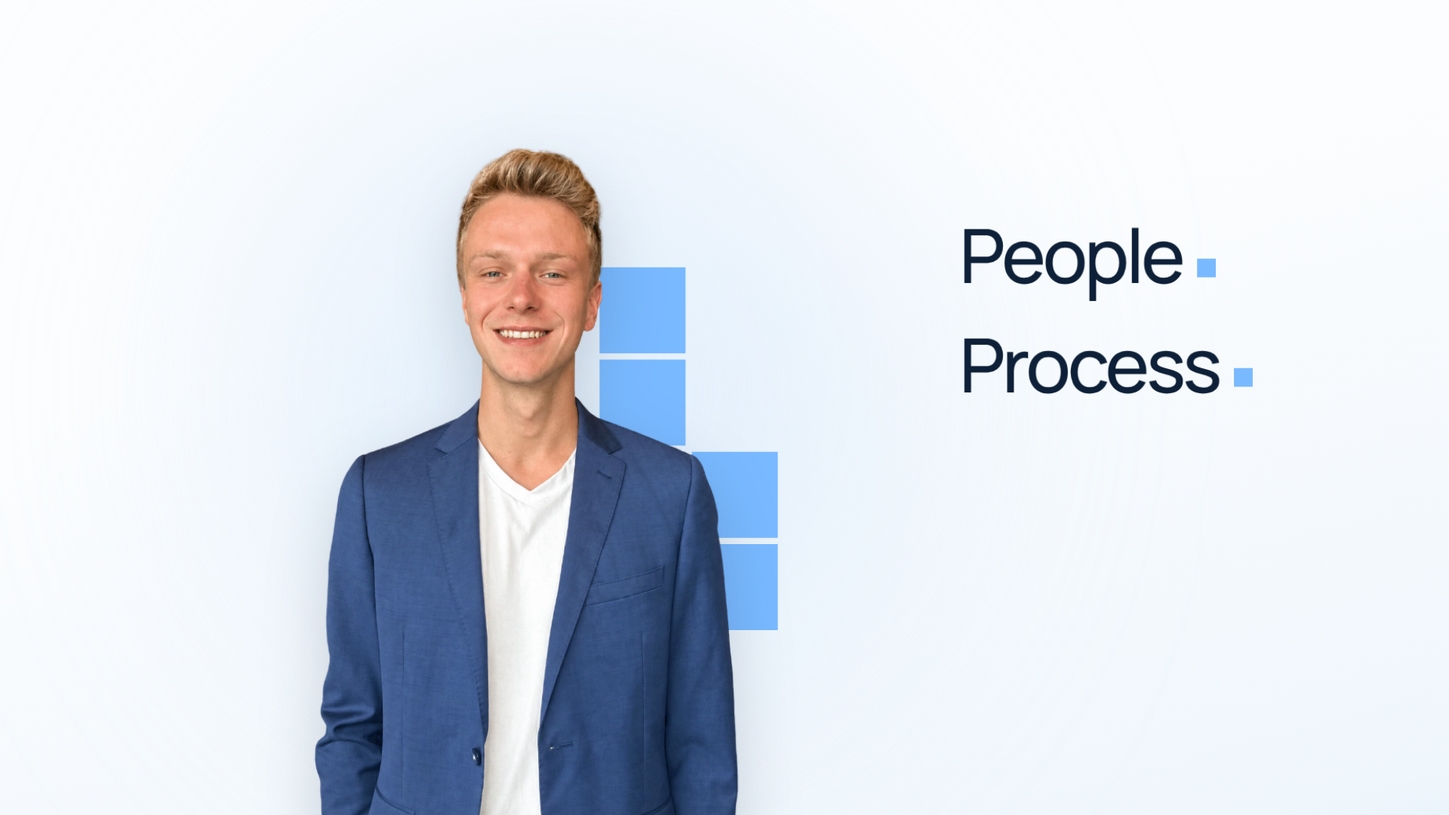
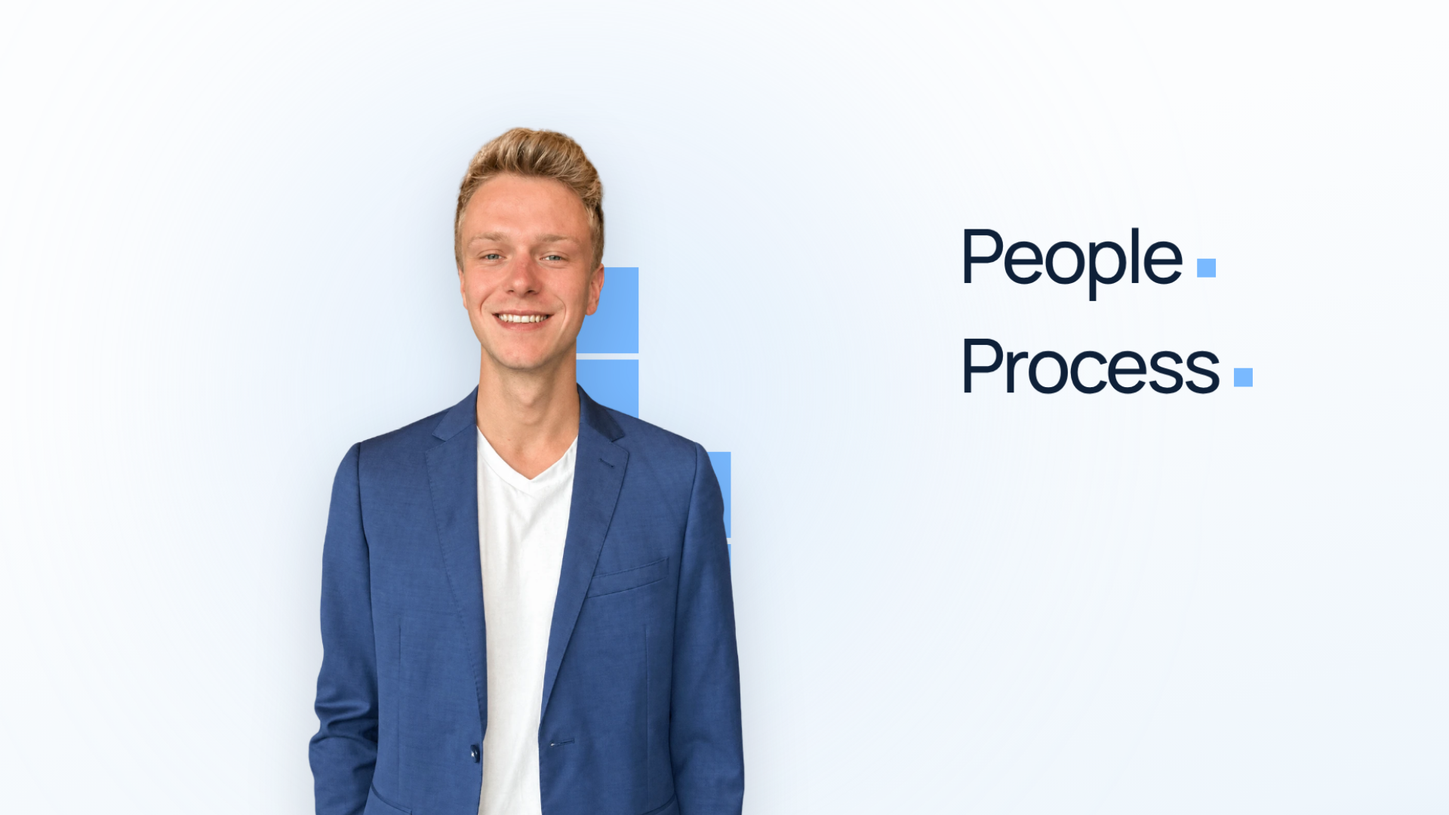
Robin Bos film: cold-eyes round applied (wall order, soft rises, counter roll, spacing, apostrophe)
Claude-Session: https://claude.ai/code/session_01JyUh6vG7236REXPth8ih3V

diff --git a/films/robin-bos/film/src/Story.tsx b/films/robin-bos/film/src/Story.tsx
@@ -28,7 +28,7 @@ const PER = { display: 34, state: 24 };                          // the period s
 const TILE = { x: 780, y: 520, s: 460, r: 0.22 };                // the K.B tile in Robin's place
 const TILE2 = { x: 560, y: 520, s: 300 };                        // the tile once the year is the subject
 const YEAR = { x: 760, y: 500, size: 200 };                      // 2024
-const MONTHS = { x: 1250, y: 500, size: 200 };                   // 18
+const MONTHS = { x: 1345, y: 500, size: 200 };                   // 18 (a clear gap after 2024)
 const RAIL = { y: 780 };                                         // the hairline rail; ticks 740–768 on it
 const GRID = { x: 540, y: 400, s: 64, gap: 18 };                 // 5×5 of projects
 const gp = GRID.s + GRID.gap;
@@ -52,12 +52,14 @@ const Travel: React.FC<{ g: number; at: string; dur: number; from: [number, numb
 
 export const Story: React.FC<{ g: number }> = ({ g }) => {
   // ---------- stretch one: the wall ----------
-  // the first three squares stack before Robin; the last three behind his shoulder once he is in
+  // the first three squares stack before Robin (a column and its footing, never a lone 2×2); the last two behind his shoulder once he is in
   const rise1: { c: number; r: number; at: number }[] = [
-    { c: 0, r: 2, at: 1 }, { c: 1, r: 1, at: 12 }, { c: 0, r: 1, at: 23 }, { c: 1, r: 0, at: 40 }, { c: 0, r: 0, at: 52 },
+    { c: 0, r: 2, at: 1 }, { c: 1, r: 1, at: 12 }, { c: 1, r: 0, at: 23 }, { c: 0, r: 1, at: 40 }, { c: 0, r: 0, at: 52 },
   ];
   const settle = T.k(g, 52 / 30 + 0.5, 0.2, MOVE);                 // the whole stack settles 6 px as the top course lands
-  const tuck = k(g, "w:behind", 0.5, MOVE, 0.15) * 90;             // on "behind" the wall tucks 90 px further behind his shoulder
+  const behindK = k(g, "w:behind", 0.5, MOVE, 0.15);
+  const tuck = behindK * 150;                                      // on "behind" the wall tucks 150 px further behind his shoulder …
+  const fwd = 1 + behindK * 0.03;                                  // … and Robin comes 3% forward, from his feet
   const course = k(g, "w:build", 0.47, MOVE, 0.3);                 // the wall grows a course on "I build": everything up 118
   const lift = course * PITCH;
   const robin1In = k(g, "w:strong", 0.63, ARRIVE, 0.75);           // Robin rises on "strong" (lands ≈1.5 s)
@@ -144,13 +146,13 @@ export const Story: React.FC<{ g: number }> = ({ g }) => {
             const pos = cell1(c, r);
             const leaves = (c === 1 && r === 0) ? "w:bos" : (c === 1 && r === 1) ? "w:process" : (c === 0 && r === 1) ? "w:technology" : null;
             if (leaves && g >= F(`${leaves}-0.45`)) return null;     // it has left the wall: drawn by its travel below
-            return <Sq key={`${c}${r}`} name={`w-${c}${r}`} x={pos.x} y={lerp(pos.y + 700, pos.y, p)} s={S} o={p > 0 ? 1 : 0} style={{ filter: p > 0 && p < 0.7 ? `blur(${(1 - p) * 6}px)` : undefined }} />;
+            return <Sq key={`${c}${r}`} name={`w-${c}${r}`} x={pos.x} y={lerp(pos.y + 400, pos.y, p)} s={S} o={cl(p * 2.5)} style={{ filter: p > 0 && p < 0.7 ? `blur(${(1 - p) * 6}px)` : undefined }} />;
           })}
           {/* the course: two squares rise under the wall on "I build" */}
           {[0, 1].map((c) => {
             const p = k(g, "w:build", 0.47, ARRIVE, 0.3 - c * 0.08);
             const pos = cell1(c, 3);
-            return p > 0 && <Sq key={`c${c}`} name={`w-${c}3`} x={pos.x} y={lerp(pos.y + 500, pos.y, p)} s={S} style={{ filter: p < 0.7 ? `blur(${(1 - p) * 6}px)` : undefined }} />;
+            return p > 0 && <Sq key={`c${c}`} name={`w-${c}3`} x={pos.x} y={lerp(pos.y + 220, pos.y, p)} s={S} o={cl(p * 2.5)} style={{ filter: p < 0.7 ? `blur(${(1 - p) * 6}px)` : undefined }} />;
           })}
         </div>
       )}
@@ -199,7 +201,7 @@ export const Story: React.FC<{ g: number }> = ({ g }) => {
 
       {/* Robin, stretch one: rises in front of the wall on "strong", leaves left on "Consultancy" */}
       {g >= F("w:strong") - 24 && g < F("w:consultancy") + 20 && (
-        <Portrait name="robin1" x={ROBIN1.x + exitX} y={ROBIN1.y + (1 - robin1In) * 980} h={ROBIN1.h} blur={robin1In < 0.75 ? (1 - robin1In) * 6 : robin1Exit > 0 ? robin1Exit * 6 : 0} />
+        <Portrait name="robin1" x={ROBIN1.x + exitX} y={ROBIN1.y + (1 - robin1In) * 980} h={ROBIN1.h * fwd} blur={robin1In < 0.75 ? (1 - robin1In) * 6 : robin1Exit > 0 ? robin1Exit * 6 : 0} />
       )}
 
       {/* the K.B tile: the gathered square turns navy, rounds and takes the real letters; then grows into the field */}
@@ -233,12 +235,13 @@ export const Story: React.FC<{ g: number }> = ({ g }) => {
       {/* €2M on the field, then the header */}
       {g >= F("w:two+0.05") && !whiteGone && (() => {
         const eK = k(g, "w:two", 0.4, ARRIVE, -0.05), twoK = k(g, "w:two", 0.42, ARRIVE, -0.12), mK = k(g, "w:million", 0.42, ARRIVE, 0.05);
+        const eO = k(g, "w:two", 0.15, (t) => t, -0.05);
         const size = lerp(440, 130, headerK);
         const x = lerp(505, 262, headerK), y = lerp(290, 80, headerK);
         return (
           <>
             <div data-probe="eur2m" style={{ position: "absolute", left: 0, top: 0, transform: `translate(${x}px, ${y}px)`, display: "flex", fontFamily: "Manrope", fontWeight: 700, fontSize: size, color: C.white, letterSpacing: "-0.05em", lineHeight: 1, willChange: "transform" }}>
-              <span style={{ display: "inline-block", transform: `translateX(${(1 - eK) * -220}px)`, opacity: eK, filter: eK < 1 ? `blur(${(1 - eK) * 8}px)` : undefined }}>€</span>
+              <span style={{ display: "inline-block", transform: `translateX(${(1 - eK) * -220}px)`, opacity: eO, filter: eK < 1 ? `blur(${(1 - eK) * 8}px)` : undefined }}>€</span>
               <span style={{ display: "inline-block", transform: `translateY(${(1 - twoK) * size * 0.32}px)`, opacity: Math.min(1, twoK * 1.7), filter: twoK < 1 ? `blur(${(1 - twoK) * 9}px)` : undefined }}>2</span>
               <span style={{ display: "inline-block", transform: `translateY(${(1 - mK) * size * 0.32}px)`, opacity: Math.min(1, mK * 1.7), filter: mK < 1 ? `blur(${(1 - mK) * 9}px)` : undefined }}>M</span>
             </div>
@@ -258,35 +261,43 @@ export const Story: React.FC<{ g: number }> = ({ g }) => {
         let landed = 0;
         for (let r = 4; r >= 0; r--) for (let c = 0; c < 5; c++) {
           const idx = (4 - r) * 5 + c;
-          const p = k(g, "w:twenty3", 0.4, ARRIVE, 0.0 - idx * 0.033);
+          const p = k(g, "w:twenty3", 0.4, ARRIVE, 0.0 - idx * 0.05);
           landed += Math.min(1, p / 0.9);
           if (p <= 0) continue;
           const cx0 = GRID.x + c * gp + GRID.s / 2, cy0 = GRID.y + r * gp + GRID.s / 2;
           const bc = { x: GRID.x + 2 * gp + GRID.s / 2, y: GRID.y + 2 * gp + GRID.s / 2 };
           const cx = lerp(cx0, bc.x + (c - 2) * GRID.s, close), cy = lerp(cy0, bc.y + (r - 2) * GRID.s, close);
-          const yRise = (1 - p) * 600;
+          const yRise = (1 - p) * 300;
           const blur = p < 0.7 ? (1 - p) * 6 : 0;
           if (split <= 0) {
-            items.push(<Sq key={idx} x={cx} y={cy + yRise} s={GRID.s} style={{ filter: blur ? `blur(${blur}px)` : undefined }} />);
+            items.push(<Sq key={idx} x={cx} y={cy + yRise} s={GRID.s} o={cl(p * 2.5)} style={{ filter: blur ? `blur(${blur}px)` : undefined }} />);
           } else {
             const sp = split * (1 - close);
             const q = lerp(32, 26, sp), d = lerp(16, 19, sp);
             for (const [dx, dy] of [[-1, -1], [1, -1], [-1, 1], [1, 1]]) items.push(<Sq key={`${idx}${dx}${dy}`} x={cx + dx * d} y={cy + dy * d} s={q} />);
           }
         }
-        const count = split > 0 ? lerp(25, 100, split) : landed;
-        const labelK = k(g, "w:projects", 0.3, ARRIVE, 0.13);
+        // the count eases in (no digit flicker at the start), follows the landings, and reaches 25 with the last square
+        const u = cl(landed / 25), ea = 0.3;
+        const count = 25 * (u < ea ? (u * u) / (2 * ea) : u - ea / 2) / (1 - ea / 2);
+        const countIn = k(g, "w:twenty3", 0.25, (t) => t, 0.0);
+        const labelK = k(g, "w:twenty3", 0.3, ARRIVE, -0.25);
+        const numW = lerp(248, 372, split);
         const plusK = k(g, "w:automations", 0.27, ARRIVE, 0.1);
         const outK = T.k(g, F("w:team") / 30 - 0.2, 0.2, DEPART);
         return (
           <div data-probe="projects" style={{ position: "absolute", left: 0, top: 0 }}>
             {items}
-            <div data-probe="counter" style={{ position: "absolute", left: 0, top: 0, width: 620, whiteSpace: "nowrap", transform: `translate(1080px, 440px)`, opacity: (1 - outK) * cl((headerK - 0.7) * 4) * cl(count * 2), filter: outK > 0 ? `blur(${outK * 8}px)` : undefined, fontFamily: "Manrope", color: C.white }}>
-              <div style={{ display: "flex", alignItems: "flex-end", fontWeight: 700, fontSize: 200, letterSpacing: "-0.05em", lineHeight: 1 }}>
-                <div style={{ width: 124 * cl(split * 1.2), overflow: "hidden", opacity: cl(split * 1.5) }}><OdoDigit v={odo(count, 3)[0]} size={200} width={0.62} /></div>
-                <div style={{ width: 124 * cl((count - 9.5) * 1.2), overflow: "hidden" }}><OdoDigit v={odo(count, 3)[1]} size={200} width={0.62} /></div>
-                <OdoDigit v={odo(count, 3)[2]} size={200} width={0.62} />
-                <span style={{ fontSize: 120, marginBottom: 20, marginLeft: 6, opacity: plusK, transform: `translateY(${(1 - plusK) * 30}px)`, display: "inline-block" }}>+</span>
+            <div data-probe="counter" style={{ position: "absolute", left: 0, top: 0, width: 620, whiteSpace: "nowrap", transform: `translate(1080px, 440px)`, opacity: (1 - outK) * cl((headerK - 0.7) * 4) * countIn, filter: outK > 0 ? `blur(${outK * 8}px)` : undefined, fontFamily: "Manrope", color: C.white }}>
+              <div style={{ position: "relative", height: 200, fontWeight: 700, fontSize: 200, letterSpacing: "-0.05em", lineHeight: 1 }}>
+                {/* 25 counts up as the squares land; on "hundred" it rolls up and 100 rolls in, the same roll as the label beneath */}
+                <Roll g={g} at="w:hundred-0.15" dur={0.27} h={200} style={{ width: 420 }}
+                  a={<div style={{ display: "flex", alignItems: "flex-end" }}>
+                    <div style={{ width: 124 * cl((count - 9.5) * 1.2), overflow: "hidden" }}><OdoDigit v={odo(count, 2)[0]} size={200} width={0.62} /></div>
+                    <OdoDigit v={odo(count, 2)[1]} size={200} width={0.62} />
+                  </div>}
+                  b={<span>100</span>} />
+                <span style={{ position: "absolute", left: numW + 6, bottom: 20, fontSize: 120, opacity: plusK, transform: `translateY(${(1 - plusK) * 30}px)`, display: "inline-block" }}>+</span>
               </div>
               <div style={{ height: 70, marginTop: 10, opacity: labelK, transform: `translateY(${(1 - labelK) * 20}px)` }}>
                 {/* the label rolls with the counter, on the same word: "100" never sits over "client projects" */}
@@ -379,7 +390,7 @@ export const Story: React.FC<{ g: number }> = ({ g }) => {
       })}
 
       {/* Robin, stretch two: enters from the right on "advise" and stays */}
-      {g >= F("w:advise") - 14 && <Portrait style={{ zIndex: 3 }} name="robin2" x={ROBIN2.x + (1 - robin2In) * 900} y={ROBIN2.y} h={ROBIN2.h} blur={robin2In < 0.75 ? (1 - robin2In) * 6 : 0} />}
+      {g >= F("w:advise") - 14 && <Portrait style={{ zIndex: 3 }} name="robin2" o={cl(robin2In * 4)} x={ROBIN2.x + (1 - robin2In) * 900} y={ROBIN2.y} h={ROBIN2.h} blur={robin2In < 0.75 ? (1 - robin2In) * 6 : 0} />}
 
       {/* the four areas take the cells the logos leave; the square steps through them as each word's period */}
       {g >= F("w:strategy") - 10 && g < F("w:building") && (
@@ -394,7 +405,7 @@ export const Story: React.FC<{ g: number }> = ({ g }) => {
       {/* LET'S TALK. */}
       {g >= F("w:lets") - 10 && (
         <div data-probe="cta" style={{ position: "absolute", zIndex: 3, left: 0, top: 0 }}>
-          <Line g={g} words={[{ t: "LET'S", at: "w:lets-0.13" }]} x={TYPE2} y={280} size={CTA} weight={700} ls={-0.08} />
+          <Line g={g} words={[{ t: "LET\u200A\u2019\u200AS", at: "w:lets-0.13" }]} x={TYPE2} y={280} size={CTA} weight={700} ls={-0.08} />
           <Line g={g} words={[{ t: "TALK", at: "w:talk-0.14" }]} x={TYPE2} y={500} size={CTA} weight={700} ls={-0.08} />
         </div>
       )}

diff --git a/films/robin-bos/storyboard/index.html b/films/robin-bos/storyboard/index.html
@@ -87,10 +87,10 @@ ul{padding-left:20px} li{margin:4px 0}
 <div class="fr"><img src="frames/f0899.png" alt=""><div class="t">29.97 s · frame 899 · <span class="p">(last frame)</span></div><div class="s"><b>On screen:</b> as above · The last frame, still working: the push completes.</div><div class="m"><b>Moves:</b> The camera&#x27;s push.</div></div>
 </div></div>
 <h2>Notes</h2><ul><li>Script: proposed, written from Robin&#x27;s own site copy and his €2M post (first-person and third-person variants in storyboard/notes.md). Every claim is in harvest/facts.md. &#x27;€2M&#x27; carries the site&#x27;s own caption: company-reported, following its first funding round.</li><li>Format assumption: 16:9 at 1920×1080, 30 fps, 30 s (website hero + LinkedIn). The subject stays in the middle 60 % for a later 9:16 recut.</li><li>Look: no intake style was chosen, so the look is Robin&#x27;s own brand measured from his site (brand.json); bright by default, one navy field for the valuation and proof (6.7 s), grown out of the K.B tile and leaving through the card&#x27;s box.</li><li>The 2×3 wall is the film&#x27;s one grounded metaphor: his own square mark stacking as blocks for &#x27;structure&#x27;; it reads in a second and returns at the end as the viewer&#x27;s structure, completed from Robin&#x27;s shoulder.</li><li>Robin: on screen 2.6–10.1 s, in the photo 19.4–21.0 s, 21.0–30 s (about 18 s). Two entrances (from below, from the right), one exit (left); never scaled or re-placed while on screen.</li><li>The four companies: as his site presents them (WKConversions, Top Jobs Abroad, ClearScaler mark + name, Tale Forge). hirebetter.io is a K.B venture, not an advisory role, and is left out of the advisory beat.</li><li>25 projects and 100+ automations are K.B&#x27;s own figures (kruslockbosconsultancy.com); shown as units, since 14 client logos ≠ 25.</li><li>Voice: Piper en_US-ryan-high scratch voice, timing only. The real recording retimes the picture: every move is keyed on a word label.</li></ul>
-<h2>Revision log</h2><table><tr><th>Before</th><th>After</th><th>Why</th></tr><tr><td>B6 &quot;a hundred automations&quot;: counter 25→100 on &quot;hundred&quot; over the label &quot;client projects&quot;</td><td>label rolls with the counter; only the + lands on &quot;automations&quot;</td><td>a false claim for half a second</td></tr><tr><td>B5 €2M: two-line caption at 36/30 px; the 2 rolled through 1</td><td>one verbatim line at 44 px; the 2 rises with € and M</td><td>phone legibility; a false number for six frames</td></tr><tr><td>B8 end card: 34 px grey contact lines in the bottom margin</td><td>40 px ink/blue lines above y 980; pill 640×112</td><td>the &quot;how&quot; must be readable</td></tr><tr><td>periods: 46/40 px squares over the last glyph</td><td>34/24 px, 0.2 em clear, bottom on the baseline</td><td>the site&#x27;s proportion, no collisions</td></tr><tr><td>B4–B5: tile largest; ticks through the digits</td><td>tile steps aside to 300 px; 2024/18 at 200 px; ticks 40 px under</td><td>the subject the largest thing</td></tr><tr><td>B7: a column with a stepping period (B3 mirrored); a hairlined logo table</td><td>the areas take the logos&#x27; 2×2 cells near Robin; no hairlines; bigger logos</td><td>one layout family in two beats; a trusted-by table</td></tr><tr><td>B1: 2.6 s without Robin</td><td>Robin rises on &quot;strong&quot;; the last three squares stack behind him</td><td>a face in the two-second window</td></tr><tr><td>B8: the second block beside the first</td><td>it lands on top: a thin tower braced into the wall</td><td>&quot;needs structure&quot; as a picture</td></tr><tr><td>transitions: field/canvas reveals from one frame; tile colour switch; the haze rect over the card</td><td>ease-in-out reveals; interpolated colour; the rect behind the card from its exact box</td><td>cuts and pops in the QC</td></tr></table>
+<h2>Revision log</h2><table><tr><th>Before</th><th>After</th><th>Why</th></tr><tr><td>B6 &quot;a hundred automations&quot;: counter 25→100 on &quot;hundred&quot; over the label &quot;client projects&quot;</td><td>label rolls with the counter; only the + lands on &quot;automations&quot;</td><td>a false claim for half a second</td></tr><tr><td>B5 €2M: two-line caption at 36/30 px; the 2 rolled through 1</td><td>one verbatim line at 44 px; the 2 rises with € and M</td><td>phone legibility; a false number for six frames</td></tr><tr><td>B8 end card: 34 px grey contact lines in the bottom margin</td><td>40 px ink/blue lines above y 980; pill 640×112</td><td>the &quot;how&quot; must be readable</td></tr><tr><td>periods: 46/40 px squares over the last glyph</td><td>34/24 px, 0.2 em clear, bottom on the baseline</td><td>the site&#x27;s proportion, no collisions</td></tr><tr><td>B4–B5: tile largest; ticks through the digits</td><td>tile steps aside to 300 px; 2024/18 at 200 px; ticks 40 px under</td><td>the subject the largest thing</td></tr><tr><td>B7: a column with a stepping period (B3 mirrored); a hairlined logo table</td><td>the areas take the logos&#x27; 2×2 cells near Robin; no hairlines; bigger logos</td><td>one layout family in two beats; a trusted-by table</td></tr><tr><td>B1: 2.6 s without Robin</td><td>Robin rises on &quot;strong&quot;; the last three squares stack behind him</td><td>a face in the two-second window</td></tr><tr><td>B8: the second block beside the first</td><td>it lands on top: a thin tower braced into the wall</td><td>&quot;needs structure&quot; as a picture</td></tr><tr><td>transitions: field/canvas reveals from one frame; tile colour switch; the haze rect over the card</td><td>ease-in-out reveals; interpolated colour; the rect behind the card from its exact box</td><td>cuts and pops in the QC</td></tr><tr><td>B1 hook: a lone 2×2 beside the cut-out (cold eyes: a Windows logo)</td><td>the wall builds as a column and its footing first; squares rise out of a blur inside the frame</td><td>a logo read in the two-second window</td></tr><tr><td>B1 &#x27;behind&#x27;: measured static</td><td>the wall tucks 150 px, Robin comes 3 % forward</td><td>every phrase gets its visual</td></tr><tr><td>B4: &#x27;2024&#x27; and &#x27;18&#x27; jammed into one number</td><td>a clear gap between them</td><td>two numbers never read as one</td></tr><tr><td>B6: the odometer flicked a digit per frame; no label until &#x27;projects&#x27;; 99→100 as a pop</td><td>slower landings, an eased count that fades in with its label; 25 rolls up and 100 rolls in like the label</td><td>a flicker is not a roll; a number needs its label</td></tr><tr><td>B7: Robin two entered at 150 px a frame; B5: the € popped in</td><td>both fade over their first four frames</td><td>pops in the QC</td></tr><tr><td>B8: LET&#x27;S with the apostrophe jammed against the T</td><td>a typographic apostrophe with hair spaces</td><td>the glyph must read</td></tr><tr><td>slow text stepping whole pixels (SHAKE on Growth)</td><td>words on their own layer; the final rendered in contiguous chunks</td><td>a tremor in the QC</td></tr></table>
 <h2>Asset requests</h2><ul><li>None: every asset comes from Robin&#x27;s site, the K.B site and his public post (assets/assets.md).</li></ul>
 <h2>Tool requests</h2><ul><li>None needed for the build. For the final: the recorded voice-over (file) and, if Karl has one, a music track.</li></ul>
-<h2>Open questions</h2><ul><li>Script approval (or Robin&#x27;s edits), and who records it: Robin (first person) or a VO artist (third-person variant).</li><li>Music: keep the composed bed, or is there a track? Effects: 50 soft cues; Karl&#x27;s ear decides the density.</li><li>The team photo from Robin&#x27;s €2M post for &#x27;a team that&#x27;s all in&#x27;: fine, or Robin alone?</li><li>The navy field for 6.7 s (valuation + proof) vs contracting back to bright after €2M (one judge preferred that).</li><li>End card contact: email + LinkedIn (as on his site), or &#x27;Start a conversation&#x27; + the page URL?</li></ul>
+<h2>Open questions</h2><ul><li>Script approval (or Robin&#x27;s edits), and who records it: Robin (first person) or a VO artist (third-person variant).</li><li>Music: keep the composed bed, or is there a track? Effects: 50 soft cues; Karl&#x27;s ear decides the density.</li><li>The team photo from Robin&#x27;s €2M post for &#x27;a team that&#x27;s all in&#x27;: fine, or Robin alone?</li><li>The navy field for 6.7 s (valuation + proof) vs contracting back to bright after €2M (one judge preferred that).</li><li>End card contact: email + LinkedIn (as on his site), or &#x27;Start a conversation&#x27; + the page URL?</li><li>Cold eyes&#x27; two-second verdict on the draft-3 frames was &#x27;scroll past&#x27;; the hook now opens on Robin rising with a column of his squares. Strong enough, or should his name come inside the first two seconds?</li><li>Cold eyes read &#x27;People. Process. Technology.&#x27; as a bullet reveal: keep the site&#x27;s statement (periods arriving from his wall), or a picture instead?</li><li>Cold eyes read the four client logos in colour as &#x27;logo soup&#x27;: keep, set in ink, or fewer?</li></ul>
 <h2>Appendix</h2>
 <details><summary>Beat sheet, arc, art direction</summary><pre># Beat sheet, arc and art direction (steps 3–5)
 

diff --git a/films/robin-bos/film/src/kinetic.tsx b/films/robin-bos/film/src/kinetic.tsx
@@ -43,7 +43,7 @@ export const Line: React.FC<{ g: number; words: W[]; x: number; y: number; size:
       const o = out ? T.k(g, off(out, i * 0.035), outDur, DEPART) : 0;
       const m = w.mark ? T.k(g, w.mark, 0.32, MOVE) : 0;
       return (
-        <span key={i} style={{ position: "relative", isolation: "isolate", display: "inline-block", opacity: Math.min(1, k * 1.7) * (1 - o),
+        <span key={i} style={{ position: "relative", isolation: "isolate", display: "inline-block", willChange: "transform", opacity: Math.min(1, k * 1.7) * (1 - o),
           ...(w.serif ? { fontFamily: KIT.serif, fontStyle: "italic", fontWeight: 400, letterSpacing: "-0.02em" } : {}),
           transform: split ? `translate(${(i - (words.length - 1) / 2) * o * size * 0.9}px, ${(1 - k) * dy * size}px)` : `translateY(${((1 - k) * dy - o * 0.3) * size}px)`, filter: k < 1 || o > 0 ? `blur(${(1 - k) * 9 + o * 9}px)` : undefined,
           color: w.color ?? (w.accent ? KIT.word : color) }}>

diff --git a/films/robin-bos/storyboard/plan.md b/films/robin-bos/storyboard/plan.md
@@ -109,6 +109,30 @@ Decisions kept against findings (for Karl):
 - The navy field flat, not the contact section's gradient: a large gradient under the breathing camera bands.
 - The navy held for 6.7 s through the proof (one judge preferred contracting it after €2M): open question for Karl.
 
+## Art-director pass, round 2 (cold eyes on the draft-3 frames, and the draft-4 measurements): revision log
+
+Cold eyes (one reader, the 34 frames, no plan): two-second verdict "scroll past"; strongest frame the team photo (f0597), weakest the grid mid-build (f0501); eight notes. The measurements of draft 4: moving 93 %, longest still 0.43 s, median 3 things on screen, 17 of 18 phrases with a new visual ("behind" static), one LURCH (the counter), one SHAKE (Growth), 23 pops.
+
+| Scene | Before | After | Why |
+|---|---|---|---|
+| B1 hook (f0036) | the first four squares stood as a lone 2×2 beside the cut-out | the rise order builds column one and its footing first (three in a column, then an L); the 2×2 never stands alone; the squares rise out of a blur 400 px below, fading in, instead of entering at the frame's bottom edge | cold eyes read a Windows logo and a Canva cut-out in the two-second window (critical); the edge entries were pops (QC) |
+| B1 "behind" | the wall tucked 90 px: measured static (4 % of the frame) | the wall tucks 150 px and Robin comes 3 % forward from his feet | "behind it" needs a depth move that reads; every phrase gets its visual (phrase check) |
+| B4 "2024" + "18" (f0402) | the two numbers jammed into "202418" | the months 95 px further right: a clear gap, half a digit wide | two numbers must never read as one (cold eyes, major) |
+| B5 "€" | the € arrived at a quarter opacity on its first frame (pop 4.3×) | it fades in over 4 frames as it slides | a pop (QC) |
+| B6 the count (f0501) | 25 squares landing one frame apart made the odometer flick one digit per frame (pop 15×, LURCH 1607 px/s); no label until "projects"; a square mid-rise 150 px under the grid | the squares land 0.05 s apart, rising 300 px out of a blur and fading in; the count eases in from zero slope and reaches 25 with the last square; the counter fades in over 0.25 s; the label arrives with the count, on "five" | a roll at one digit per frame is a flicker; a number without its label is a mid-tween (cold eyes, major) |
+| B6 "a hundred" | the odometer rolled 75 digits in 8 frames: "99" → "100" as a pop (12.8×) | 25 rolls up and 100 rolls in, the same roll as the label beneath it; the "+" moves with the number's width | one gesture, no flicker (QC) |
+| B7 Robin two | entered from the right at 150 px per frame (pop 10×) | fades in over his first four frames; the final's motion blur carries the rest | a pop (QC) |
+| B8 LET'S (f0858) | the straight apostrophe jammed against the T at −0.08 em tracking | a typographic apostrophe with a hair space either side | the apostrophe must read as its own glyph (cold eyes, minor) |
+| all Lines | slow text rises stepped whole pixels: SHAKE on "Growth" (2.7 px steps), a "look" on ROBIN BOS | the words on their own compositor layer; the final rendered in four contiguous chunks so each layer's raster history is continuous | regular steps read as a tremor (QC) |
+
+Decisions kept against the cold-eyes notes (for Karl, see notes.md):
+- B3 People. Process. Technology. as the site's own stacked statement (cold eyes: "a bullet reveal, PowerPoint"): kept from round 1; the periods arriving from his wall is the move that a bullet list never has. Karl decides whether a picture replaces it.
+- The four logos in their own colours at his shoulder (cold eyes: "logo soup"): asset-strategy rule, third-party logos as their sites present them; four is the count the facts allow. Karl decides between colour, mono and fewer.
+- The four areas in the proof's 2×2 cells (cold eyes: "the word-list device again"): round 1 already moved them out of B3's column into the grid; the stepping period is the thread. Kept.
+- The K.B tile (cold eyes: "an app icon"): it is his mark as the site renders it (rounded tile, the wordmark). Kept.
+- The viewer's wall at the end (cold eyes: "a Tetris stack"): the concept's payoff, the thin tower braced into a wall whose top-left square is the period of TALK. Kept.
+- The 5×5 wall of 25 and the 100 small squares (busy peak at 19 s, 35 motions): the proof's one swarm, decided in round 1.
+
 ## Rules from the judgement pass (applied to the whole film)
 - Every number on screen is one of his figures at every frame: a digit rises whole or rolls in from blank; no odometer passes through 2023, €1M or 00.
 - A number and its label change in the same gesture; a counter never exceeds the units standing on screen.
@@ -120,3 +144,10 @@ Decisions kept against findings (for Karl):
 - Third-party material appears as the sites present it; every name readable at 390 px.
 - No still over 0.5 s before the end card; the first face inside the two-second window.
 - frames.json describes what renders; the frames, the sheet and the QC come from the same render before review.
+
+Rules from round 2:
+- A counter never rolls faster than one digit per two frames; a number and its label arrive in the same gesture.
+- Nothing enters at the frame's edge: a riser starts inside the frame, out of a blur, fading in over its first 40 %.
+- Two numbers side by side keep at least half a digit of clear space.
+- Blocks never stand as a lone 2×2 with equal gaps (a logo): a wall builds as a column and its footing first.
+- A fast entry of a large object (a cut-out, a type run) carries a 4-frame fade as well as its blur.

diff --git a/films/robin-bos/README.md b/films/robin-bos/README.md
@@ -29,7 +29,7 @@ npx remotion studio                      # edit in Remotion Studio (composition 
 - `src/lib.tsx`: the brand tokens and the motion curves. `src/kinetic.tsx`: the skill's kit. `src/parts.tsx`, `src/forms.tsx`: the stage's pieces and Robin's rebuilt forms.
 - Draft render (no blur, fast): `npx remotion render Film out/draft.mp4 --props='{"blurSamples":1,"audio":"mix"}'`
 - Final render (8-sample motion blur, chunked so slow text never trembles): from `film/`,
-  `bash scripts/render_chunks.sh Film out/final.mp4 '{"blurSamples":8,"audio":"none"}' 0,240,480,700,900 public/audio/mix.wav`
+  `bash scripts/render_chunks.sh Film out/final.mp4 '{"blurSamples":8,"audio":"none"}' 0,212,450,660,900 public/audio/mix.wav`
 - In a sandbox add `--browser-executable=/opt/pw-browsers/chromium_headless_shell-*/chrome-linux/headless_shell` (render_chunks.sh finds it itself).
 - Test frames: `node scripts/stills.mjs 0,90,420 1 Film` → `out/test/`. Motion probe: `node scripts/motion_probe.mjs out/probe.jsonl && python3 ../scripts/motion_probe.py out/probe.jsonl --style calm`.
 - QC on an encode: `bash ../scripts/qc.sh out/final.mp4 out/qc` and `python3 ../scripts/phrase_check.py check out/final.mp4 src/words.json --sheet out/qc/phrases.png`.

diff --git a/films/robin-bos/storyboard/notes.md b/films/robin-bos/storyboard/notes.md
@@ -34,3 +34,7 @@ Every claim is checked against harvest/facts.md (table at its end). "€2M" carr
 2. Music: a bed is composed for the draft (calm-optimistic, 113.5 BPM, D major, lift on the valuation). Keep it, or is there a track?
 3. The team photo from Robin's €2M post (the four of them with the balloons) is used for "a team that's all in": fine, or Robin alone?
 4. Contact line on the end card: email + LinkedIn (as on his site), or "Start a conversation" + the URL of his page?
+5. The navy field for 6.7 s (valuation + proof), or contracting back to bright after €2M (one judge preferred that).
+6. From cold eyes (one reader, the frames only, no plan): the two-second verdict was "scroll past". The hook now opens on Robin rising with a column of his squares (no lone 2×2). Is the opening strong enough, or should the first two seconds carry his name as well?
+7. From cold eyes: "People. Process. Technology." read as a bullet reveal. It is the site's own statement with the periods arriving from his wall; keep it, or replace it with a picture (e.g. the wall taking three named courses)?
+8. From cold eyes: the four client logos in their own colours read as "logo soup". Keep (as their sites present them), set them in ink, or show fewer?
